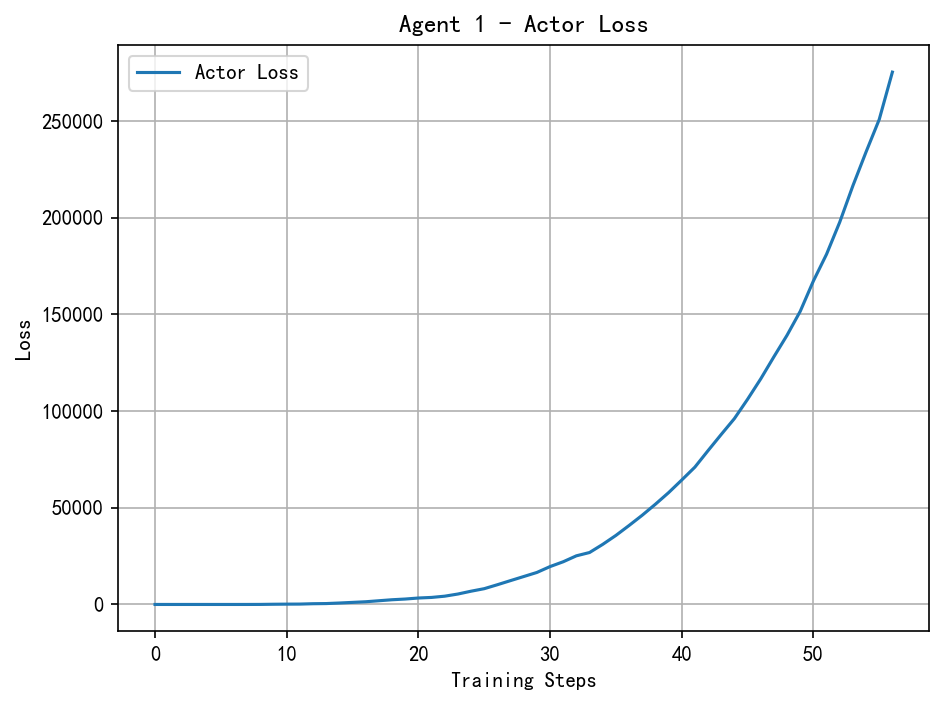
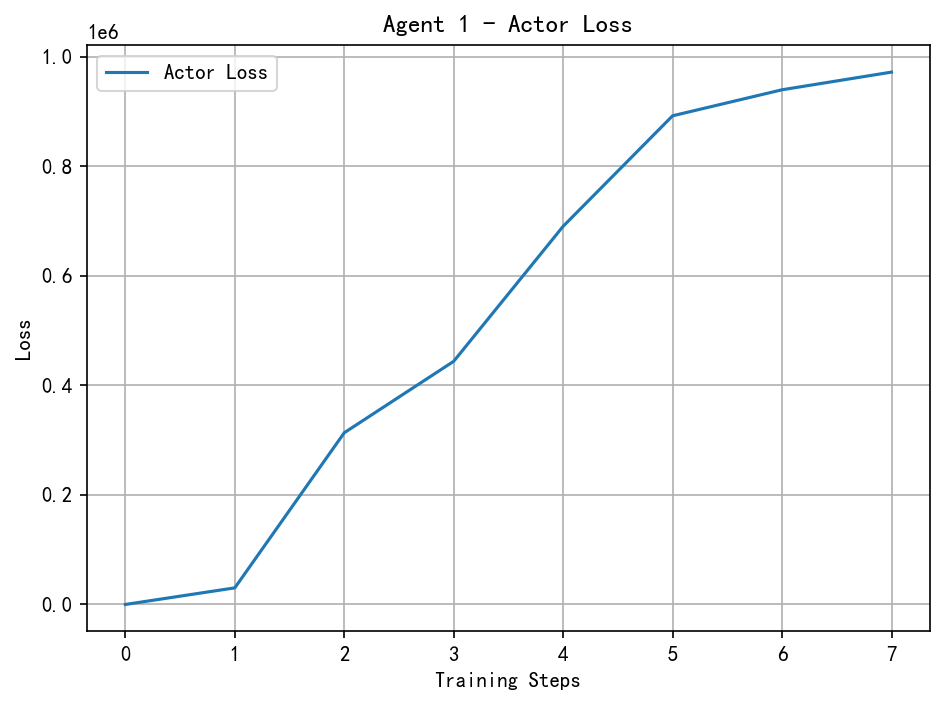
修改画图eposide

diff --git a/Fed_CSAC_shared_q.py b/Fed_CSAC_shared_q.py
@@ -149,6 +149,11 @@ def train_multi_agents(
     reward_hist        = [ [] for _ in range(n_agents) ]
     constraint_hist    = [ [] for _ in range(n_agents) ]
 
+    critic_loss_ep_hist = [[] for _ in range(n_agents)]
+    actor_loss_ep_hist  = [[] for _ in range(n_agents)]
+    qc_loss_ep_hist     = [[] for _ in range(n_agents)]
+
+
     # 全局训练轮
     for rnd in range(1, max_rounds+1):
         print(f"== 轮次 {rnd}/{max_rounds} ==")
@@ -273,6 +278,14 @@ def train_multi_agents(
             reward_hist[ies].append(total_reward_agent[ies])
             constraint_hist[ies].append(total_penalty_agent[ies])
 
+            if critic_loss_hist[ies]:
+                critic_loss_ep_hist[ies].append(critic_loss_hist[ies][-1])
+            if actor_loss_hist[ies]:
+                actor_loss_ep_hist[ies].append(actor_loss_hist[ies][-1])
+            if qc_loss_hist[ies]:
+                qc_loss_ep_hist[ies].append(qc_loss_hist[ies][-1])
+
+
         # 周期联邦平均
         if rnd % agg_interval == 0:
             print(f"-- 执行联邦聚合 (轮次 {rnd}) --")
@@ -344,28 +357,28 @@ def train_multi_agents(
 
     for idx in range(n_agents):
         draw_and_save(
-            critic_loss_hist[idx],
+            critic_loss_ep_hist[idx],
             title=f"Agent {idx} - Critic Loss",
             ylabel="Loss",
             fname=f"agent{idx}_critic_loss.png",
             label="Critic Loss",
-            xlabel="Training Steps"
+            xlabel="Episode"
         )
         draw_and_save(
-            actor_loss_hist[idx],
+            actor_loss_ep_hist[idx],
             title=f"Agent {idx} - Actor Loss",
             ylabel="Loss",
             fname=f"agent{idx}_actor_loss.png",
             label="Actor Loss",
-            xlabel="Training Steps"
+            xlabel="Episode"
         )
         draw_and_save(
-            qc_loss_hist[idx],
+            qc_loss_ep_hist[idx],
             title=f"Agent {idx} - Constraint(Qc) Loss",
             ylabel="Loss",
             fname=f"agent{idx}_qc_loss.png",
             label="Constraint Loss",
-            xlabel="Training Steps"
+            xlabel="Episode"
         )
 
     return agents
@@ -374,4 +387,4 @@ def train_multi_agents(
 if __name__=='__main__':
     scenarios=['IES1','IES2','IES3']
     # scenarios=['IES1']
-    agents = train_multi_agents(scenarios,max_rounds=5000)
+    agents = train_multi_agents(scenarios,max_rounds=10)
